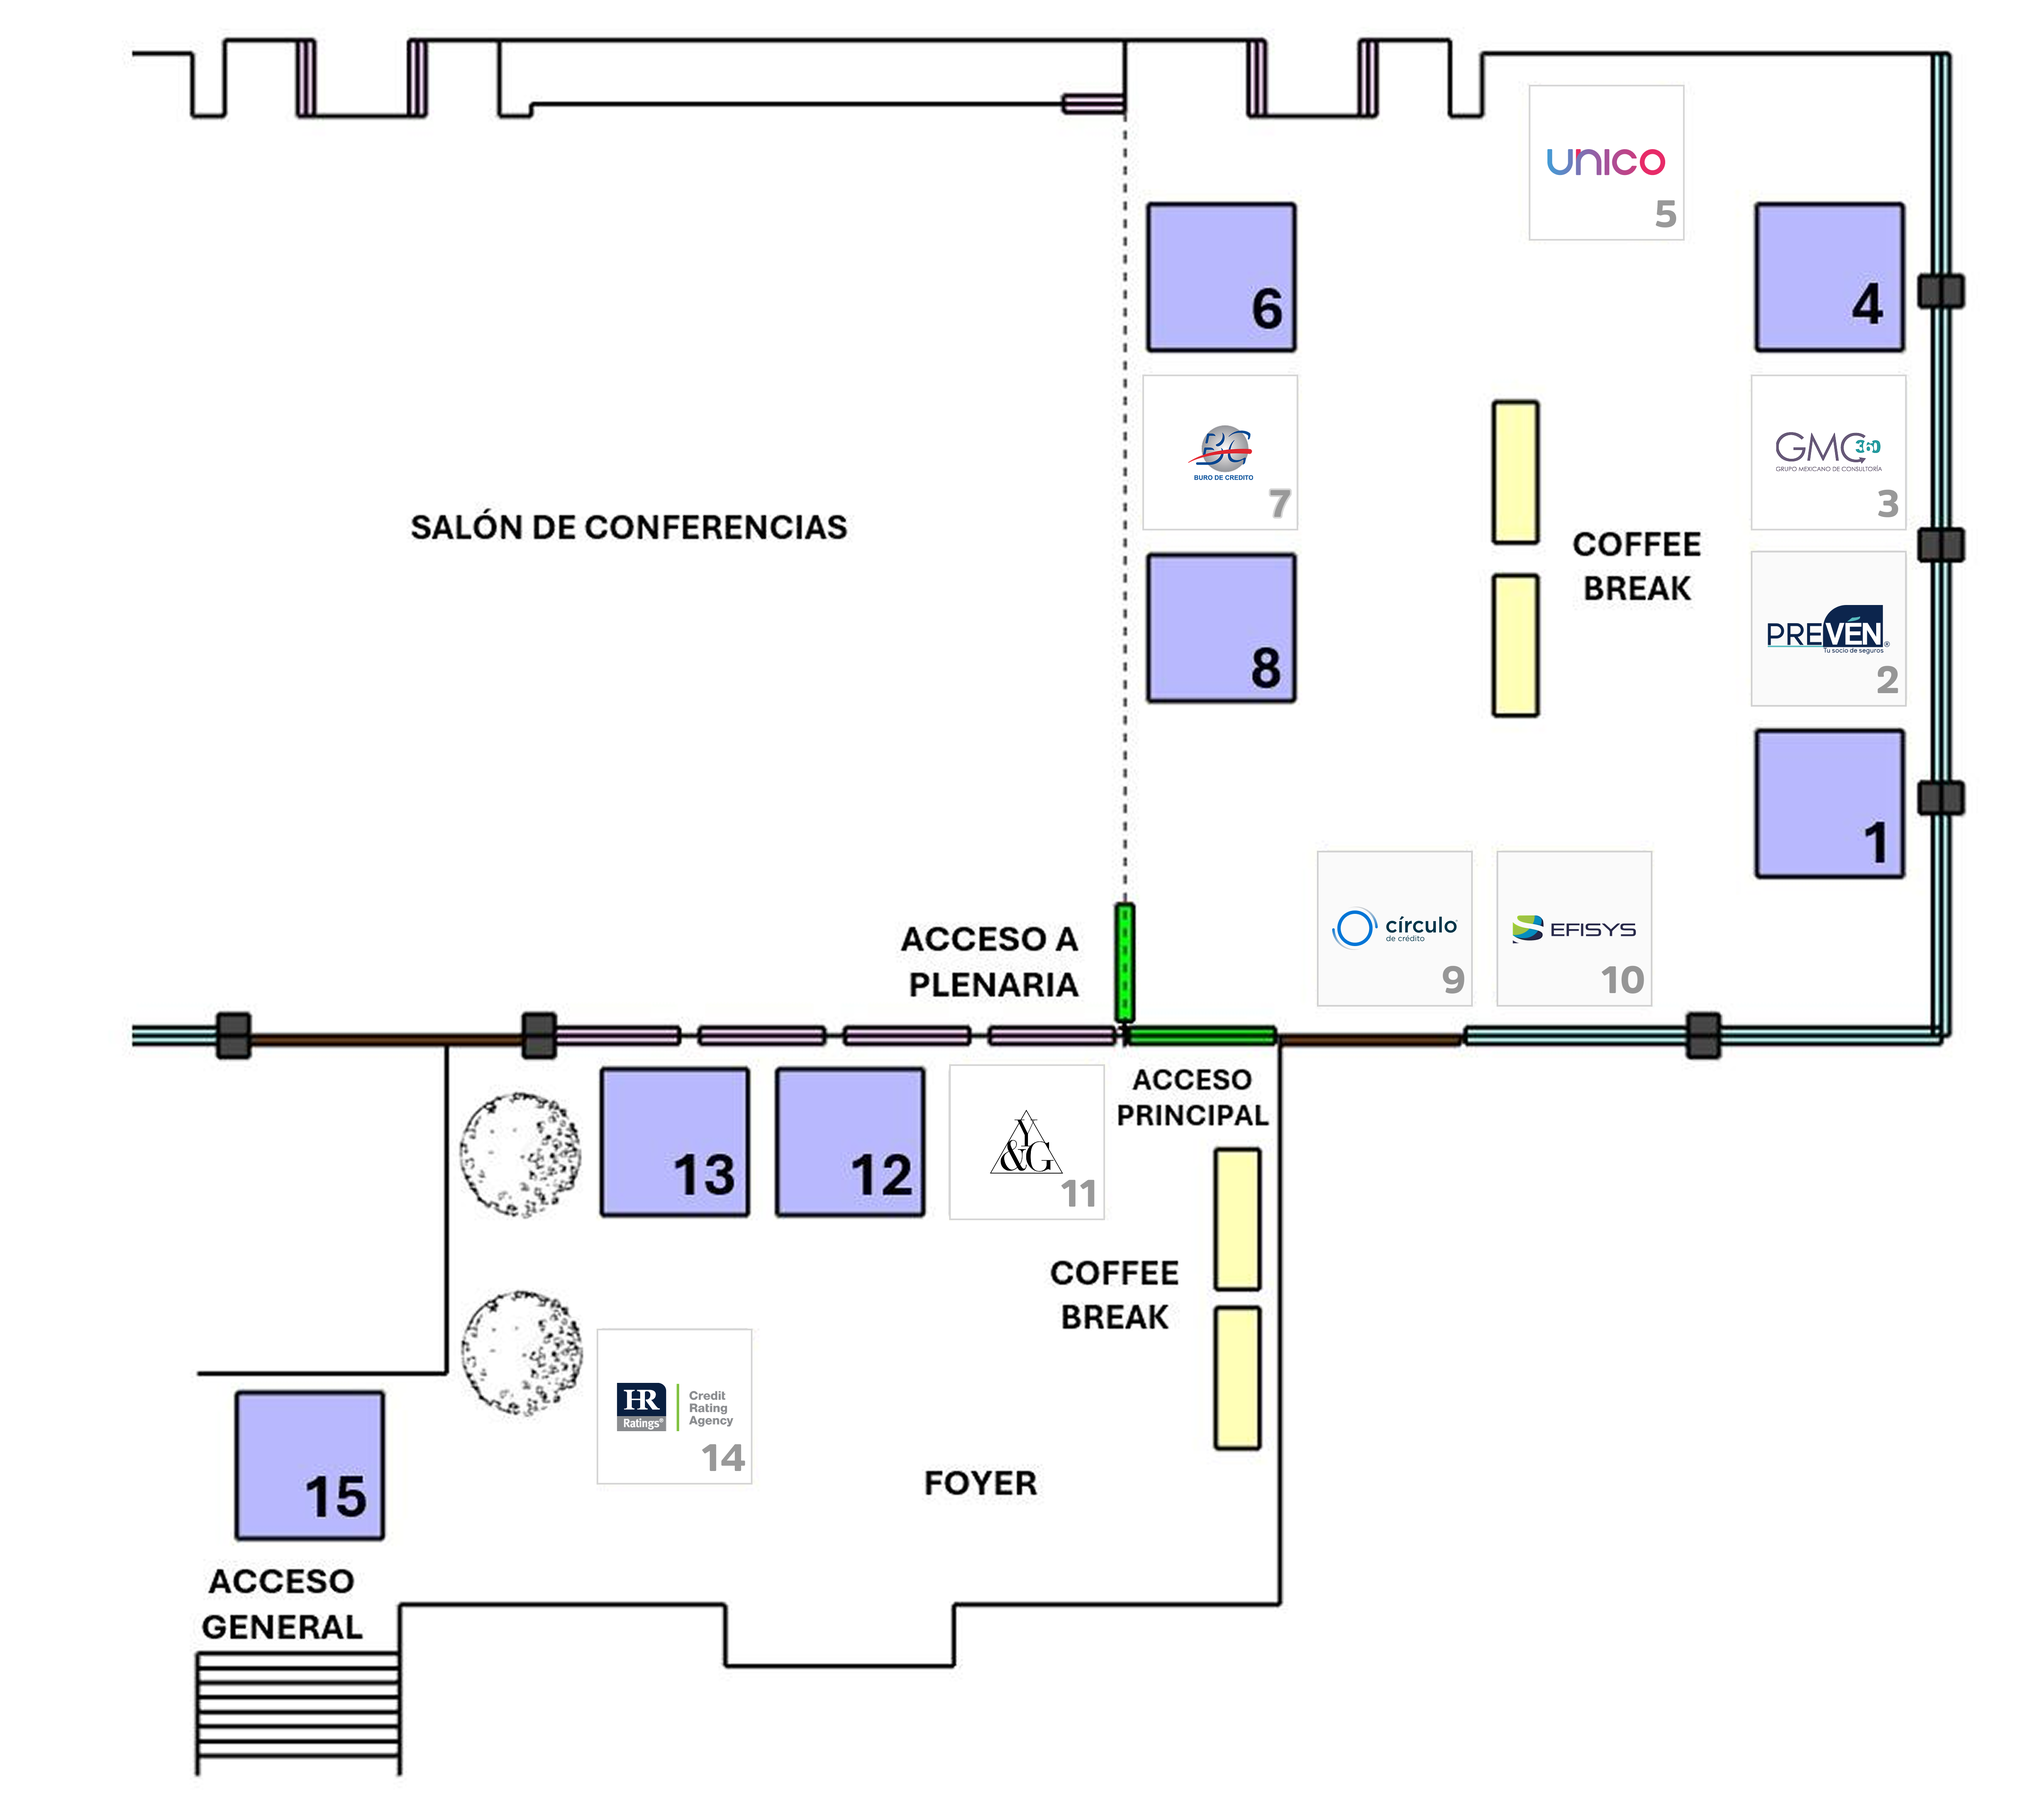
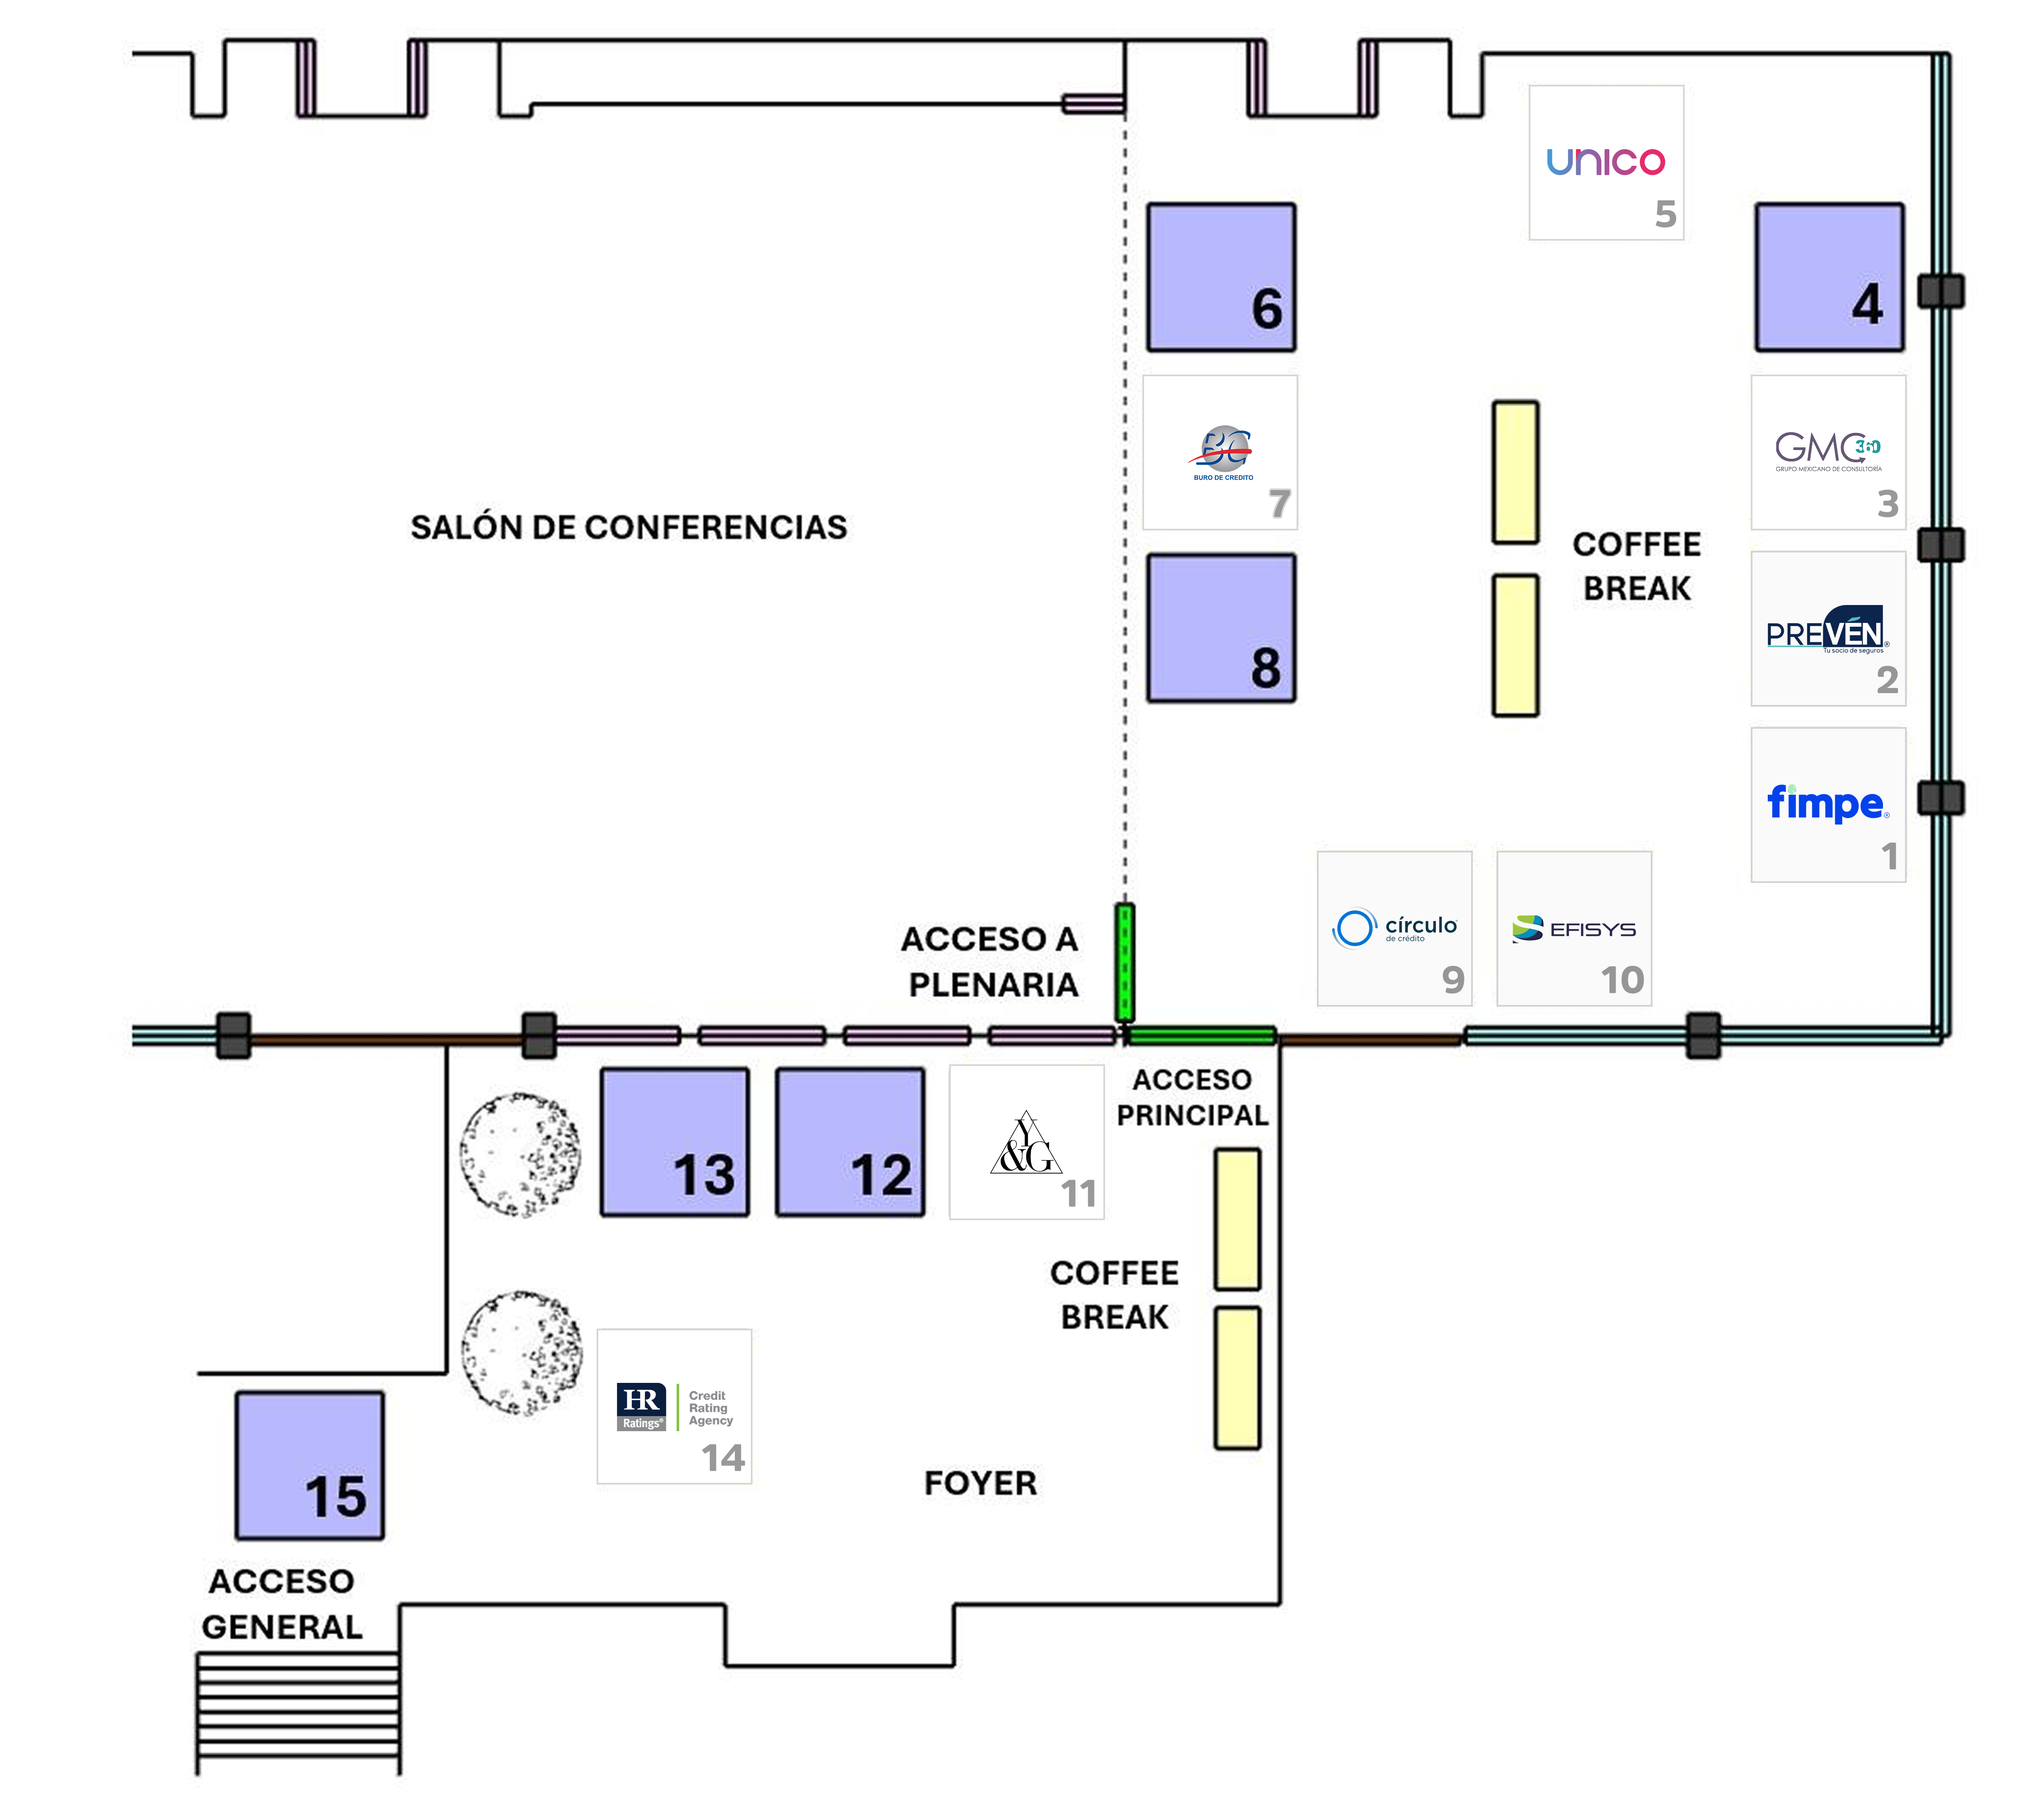
patrocinador

Changed region(s): [[0.8396, 0.4055, 0.9328, 0.4991]]

diff --git a/src/components/stands_copy.vue b/src/components/stands_copy.vue
@@ -1,6 +1,6 @@
 <script setup>
   import { ref, computed, onMounted, onUnmounted, nextTick } from 'vue';
-  import Stand1 from '@/assets/img/Stand1.png';
+  import Stand1 from '@/assets/img/Stands/stand-01-fimpe.png';
   import Stand2 from '@/assets/img/stands/stand-02-preven.png';
   import Stand3 from '@/assets/img/stands/stand-03-gmc360.png';
   import Stand5 from '@/assets/img/stands/stand-05-unico.png';
@@ -15,12 +15,12 @@
 // Normalmente, estos datos se obtendrían de una API o se pasarían como un `prop`,
 // pero para este ejemplo, los codificaremos aquí.
 const stands = ref([
-  // {
-  //   id: 1,
-  //   imagen: Stand1,
-  //   nombre: "Circulo de credito",
-  //   titulo: "Circulo de credito",
-  // },
+  {
+    id: 1,
+    imagen: Stand1,
+    nombre: "Fimpe",
+    titulo: "Fimpe",
+  },
   {
     id: 2,
     imagen: Stand2,

diff --git a/src/components/patrocinadores.vue b/src/components/patrocinadores.vue
@@ -34,6 +34,7 @@
 
 <script setup>
   import { ref } from 'vue'
+  import fimpe from '@/assets/img/patrocinadores/fimpe.png';
   // import bajaware from '@/assets/img/patrocinadores/bajaware.png';
   import circulo_de_credito from '@/assets/img/patrocinadores/circulo_de_credito.png';
   import gmc360 from '@/assets/img/patrocinadores/gmc360.png';
@@ -50,6 +51,7 @@
   import hr_ratings from '@/assets/img/patrocinadores/hr_ratings.png';
 
   const patrocinadores = ref([
+    { id: 1, url: 'https://fimpe.org/', src: fimpe, alt: 'Fimpe' },
     // { id: 1, url: '#', src: bajaware, alt: 'bajaware' },
     { id: 2, url: 'https://www.circulodecredito.com.mx/home', src: circulo_de_credito, alt: 'Circulo de Crédito' },
     { id: 3, url: 'https://www.gmc360.com.mx/', src: gmc360, alt: 'GMC360' },
